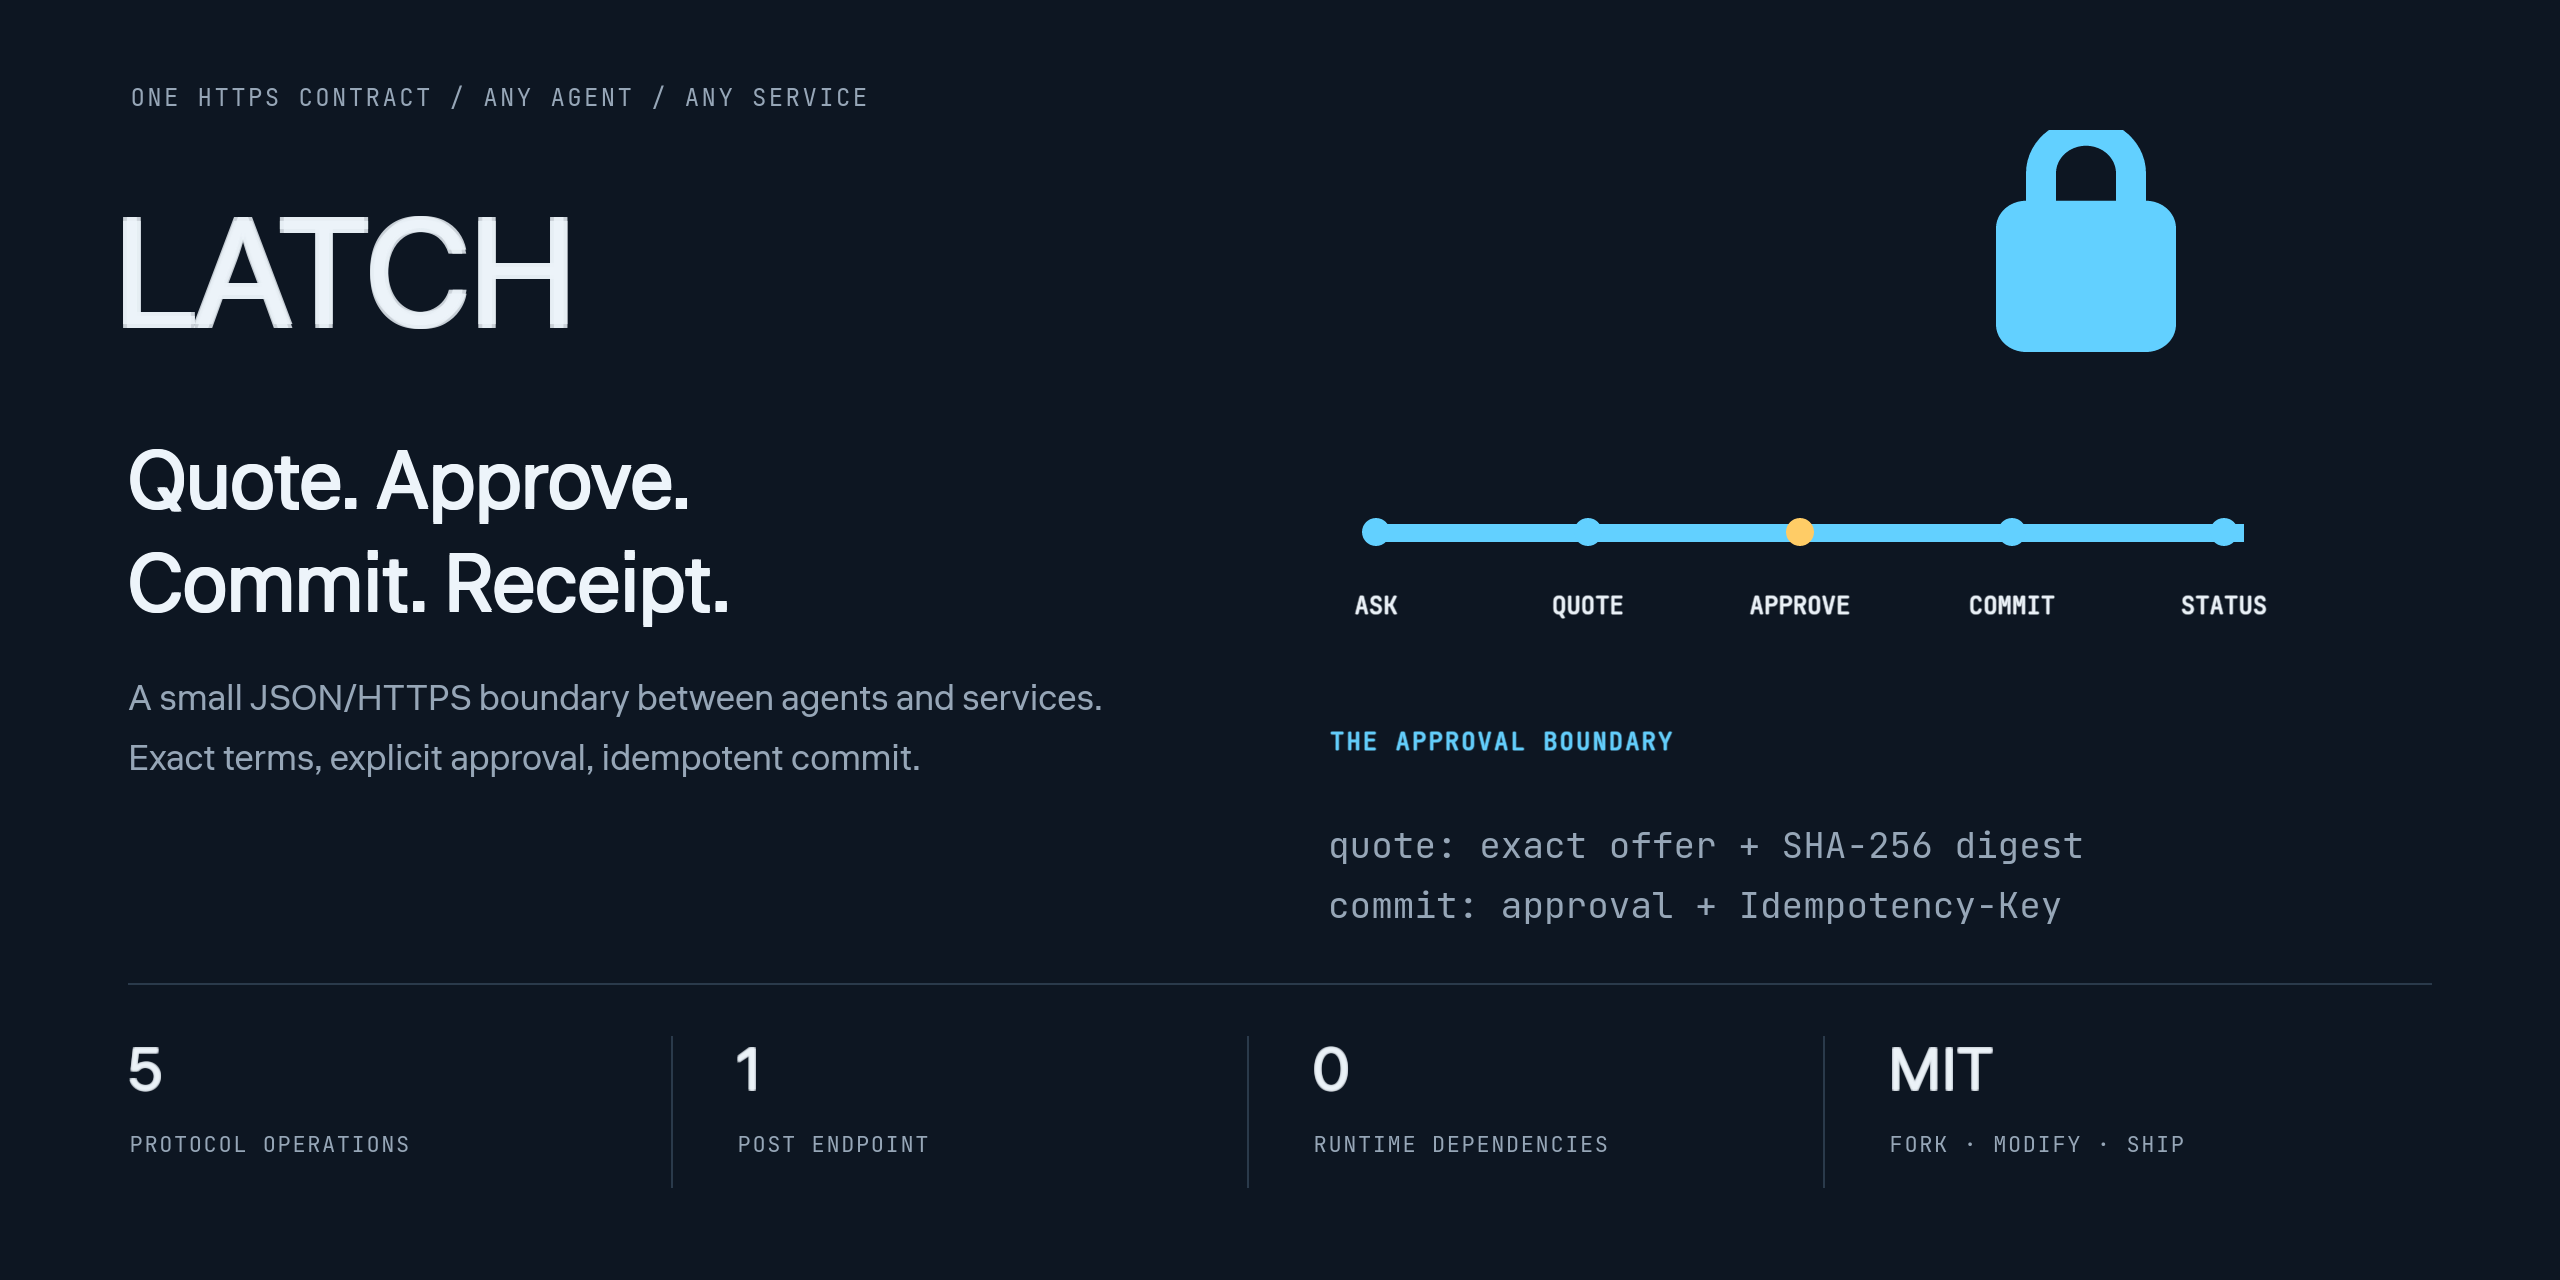
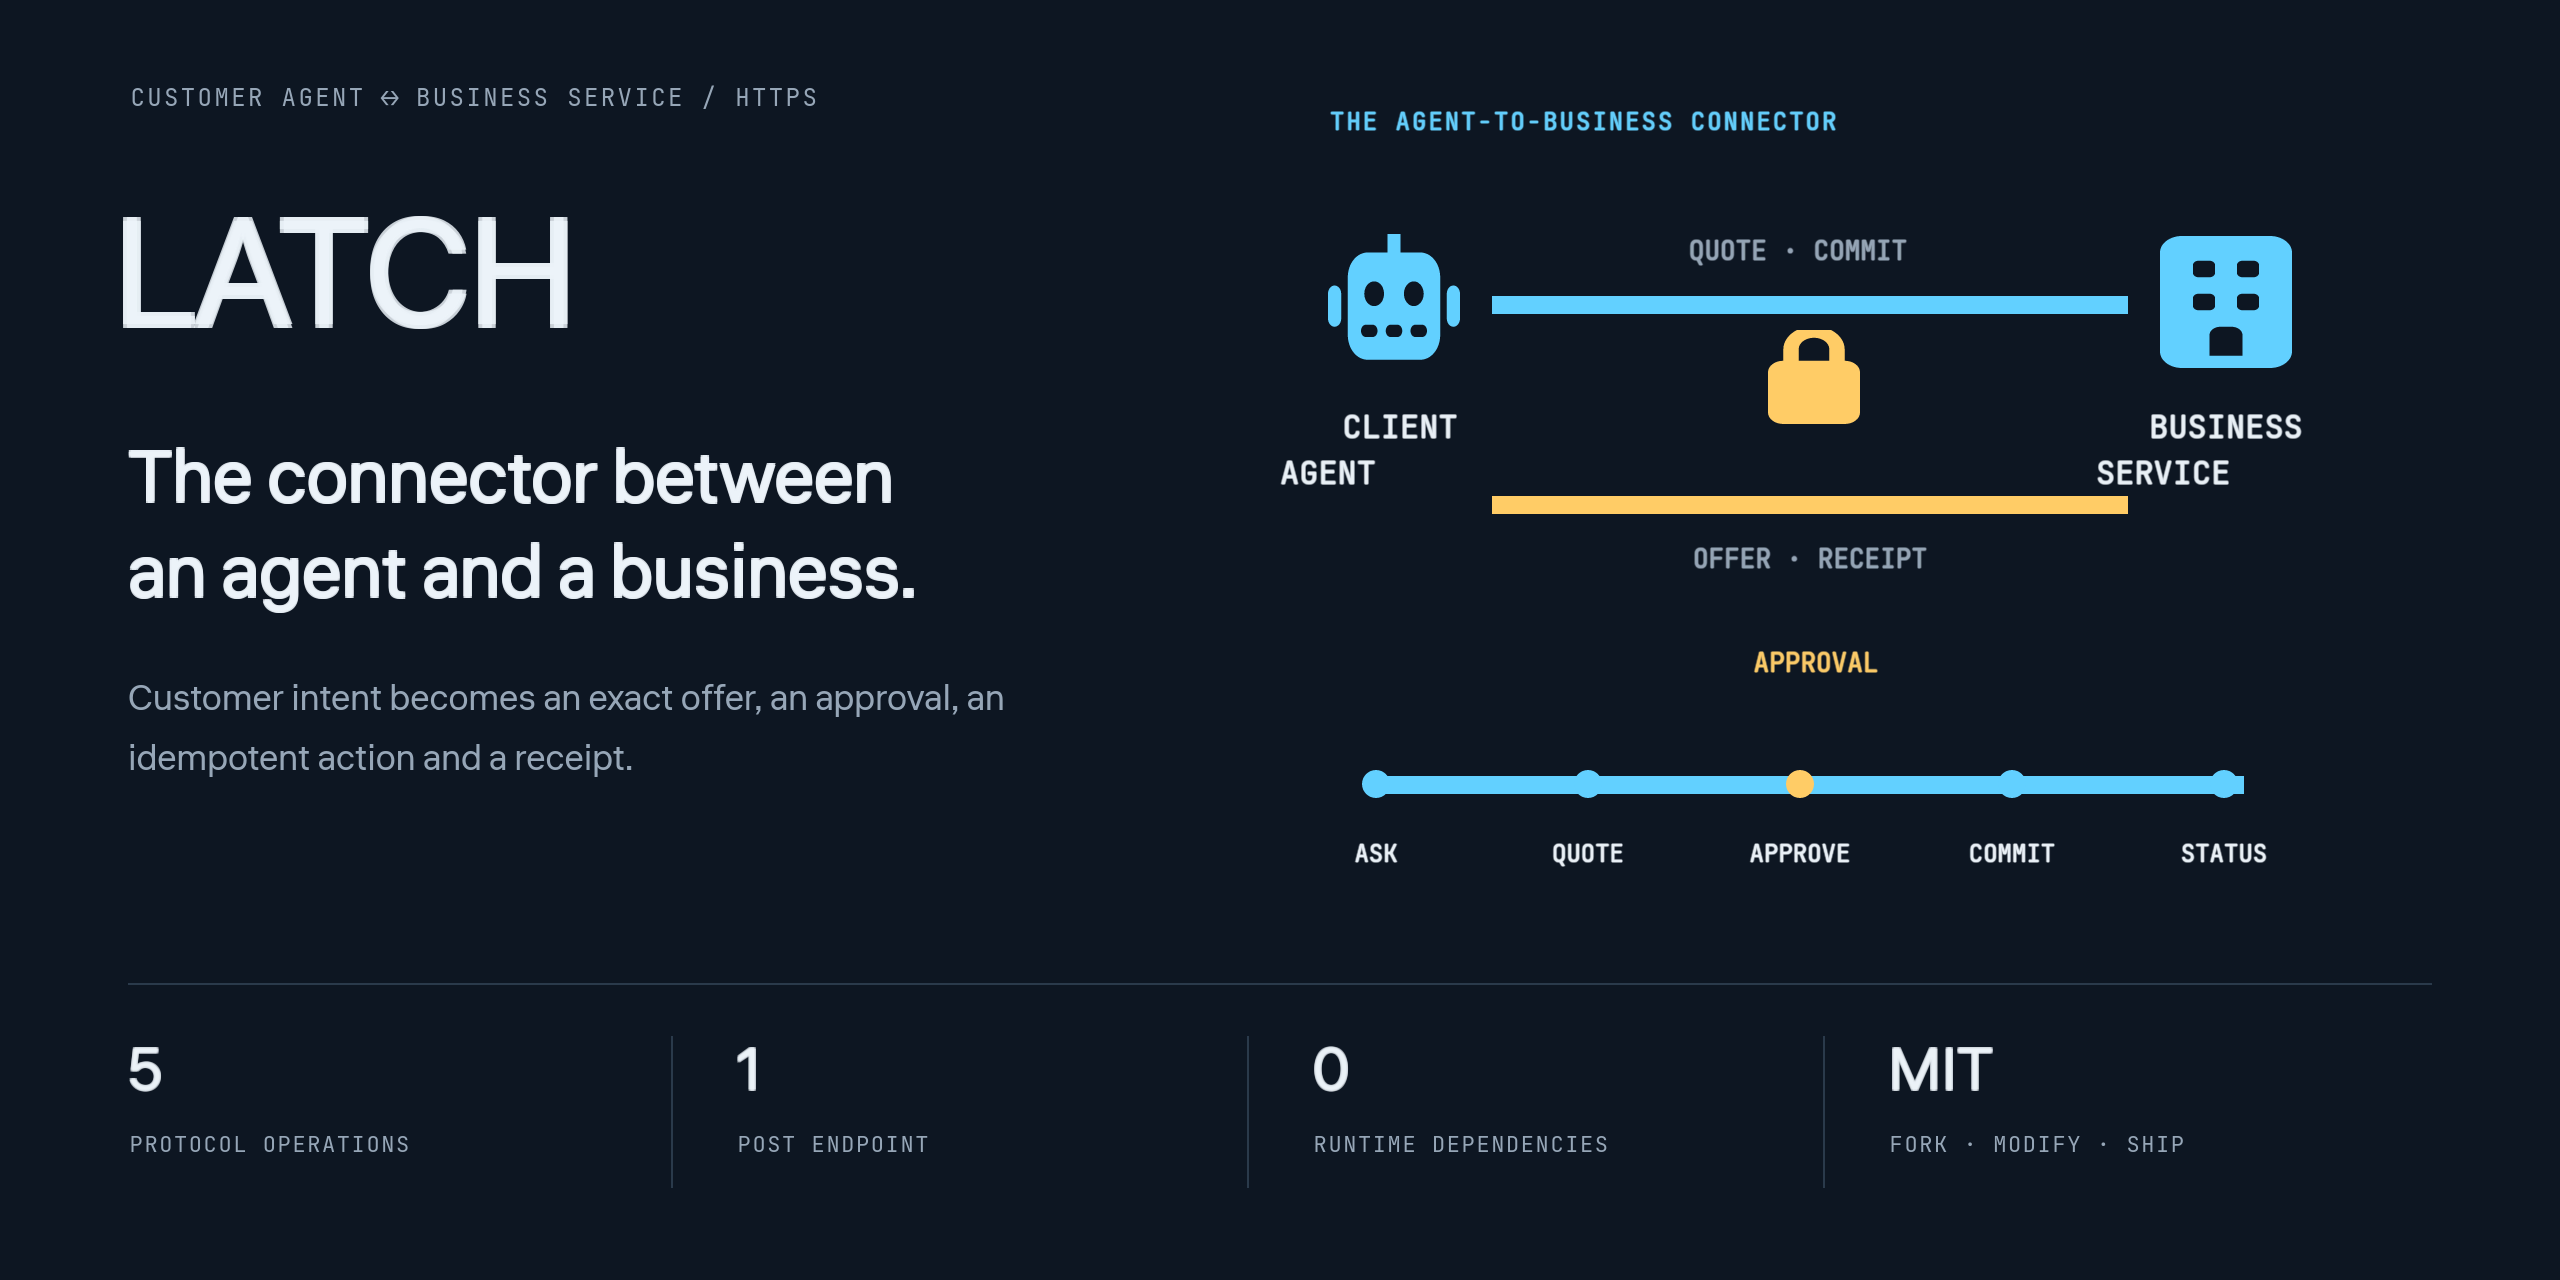
docs: clarify LATCH agent-to-business connector

diff --git a/README_RU.md b/README_RU.md
@@ -1,6 +1,6 @@
 <div align="center">
-  <img src="docs/readme/hero.png" alt="LATCH — quote, approve, commit и receipt через небольшой JSON/HTTPS-контракт" width="100%">
-  <p><strong>Один небольшой HTTPS-контракт между любым агентом и любым сервисом.</strong></p>
+  <img src="docs/readme/hero.png" alt="LATCH соединяет агента клиента и сервис бизнеса: quote и commit в одну сторону, offer и receipt обратно, approval между ними" width="100%">
+  <p><strong>Коннектор между агентом клиента и сервисом бизнеса.</strong></p>
   <p>Одна карточка · один POST endpoint · пять операций · MIT</p>
   <p><a href="README.md">English</a> · <a href="#запуск">Запуск</a> · <a href="#граница-безопасности">Граница безопасности</a> · <a href="SPEC.md">Спецификация</a> · <a href="https://balanov.pro/latch/">Живое демо</a></p>
 </div>

diff --git a/README.md b/README.md
@@ -1,6 +1,6 @@
 <div align="center">
-  <img src="docs/readme/hero.png" alt="LATCH — quote, approve, commit and receipt through one small JSON/HTTPS boundary between agents and services" width="100%">
-  <p><strong>One tiny HTTPS contract between any agent and any service.</strong></p>
+  <img src="docs/readme/hero.png" alt="LATCH connects a customer's agent to a business service: quote and commit flow one way, offer and receipt return back, with approval between them" width="100%">
+  <p><strong>The connector between a customer's agent and a business service.</strong></p>
   <p>One card · one POST endpoint · five operations · no SDK required · MIT</p>
   <p>
     <a href="#run">Run</a> ·
